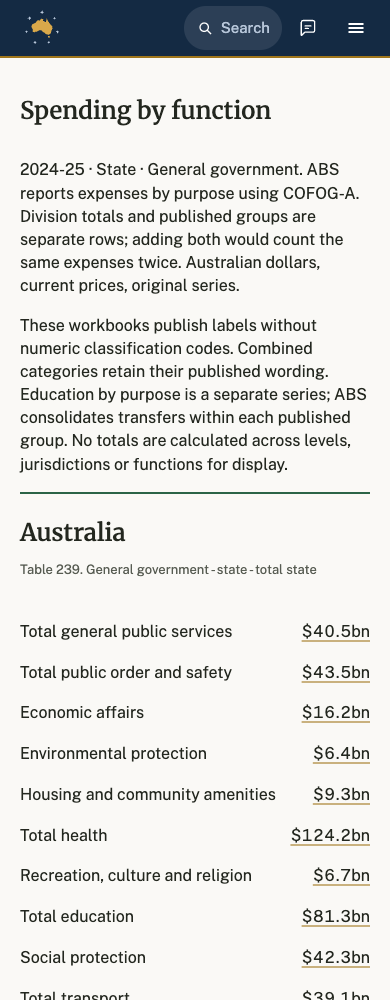
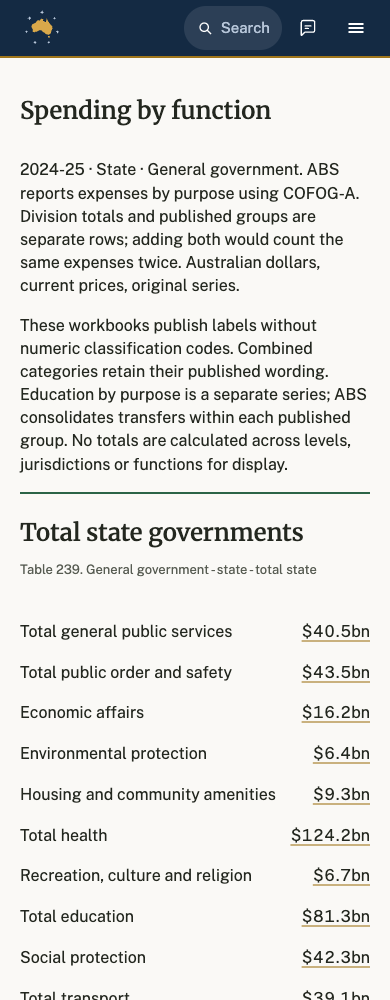
Correct ABS GFS group headings and prove diagnostic containment

Changed region(s): [[0.0615, 0.527, 0.7692, 0.558]]

diff --git a/portal/src/government-finance-functions.ts b/portal/src/government-finance-functions.ts
@@ -1,6 +1,7 @@
 import {formatCell, guardTableURL, type Row} from '../public/datatable.js'
 import {governmentFunctionTableConfig, registerTableHTML} from '../public/register-tables.js'
 import {clearedGFSDocuments, type GFSHub, type GFSRow} from './government-finance.ts'
+import {governmentFinanceGroupHeading} from './government-finance-groups.ts'
 
 export type GFSFunctionRow=Omit<GFSRow,'measure_as_published'> & {
   classification:string;function_level:'division'|'group'|'total';division:string|null;group:string|null;
@@ -63,7 +64,7 @@ export function spendingByFunction(h:GFSHub,url:URL,selection:{release:string;le
   const cards=[...new Set(latestRows.map(r=>r.jurisdiction))].sort().map(j=>{
     const rows=latestRows.filter(r=>r.jurisdiction===j),functions=rows.filter(r=>r.measure==='expenses_by_function' && r.function_level!=='group')
     const display=functions.length?functions:rows.filter(r=>r.measure==='education_operating_expenses')
-    return `<article class="gfs-function-jurisdiction"><h3>${esc(j)}</h3><p class="gfs-receipt">${esc(display[0].consolidation)}</p>${functions.length?'':'<p>Education only; this workbook does not publish an all-function split for this group.</p>'}<dl>${display.map(r=>`<div${r.function_level==='total'?' class="gfs-function-total"':''}><dt>${esc(r.function_as_published)}</dt><dd><a href="${esc(r.source_url)}" title="${esc(r.workbook+' · '+r.sheet+'!'+r.cell)}">${r.value===null?'Not published':formatCell(r.value*1e6,{key:'amount',label:'Amount',type:'money'})}</a></dd></div>`).join('')}</dl>${receipt(h)}<details><summary>Original cells and source hashes</summary>${display.map(r=>`<p><a href="${esc(r.source_url)}">${esc(r.function_as_published)} · ${esc(r.sheet+'!'+r.cell)}</a><br>Snapshot ${esc(r.snapshot)} · SHA-256 ${esc(r.sha256)}</p>`).join('')}</details></article>`
+    return `<article class="gfs-function-jurisdiction"><h3>${esc(governmentFinanceGroupHeading(display[0].level_of_government,j))}</h3><p class="gfs-receipt">${esc(display[0].consolidation)}</p>${functions.length?'':'<p>Education only; this workbook does not publish an all-function split for this group.</p>'}<dl>${display.map(r=>`<div${r.function_level==='total'?' class="gfs-function-total"':''}><dt>${esc(r.function_as_published)}</dt><dd><a href="${esc(r.source_url)}" title="${esc(r.workbook+' · '+r.sheet+'!'+r.cell)}">${r.value===null?'Not published':formatCell(r.value*1e6,{key:'amount',label:'Amount',type:'money'})}</a></dd></div>`).join('')}</dl>${receipt(h)}<details><summary>Original cells and source hashes</summary>${display.map(r=>`<p><a href="${esc(r.source_url)}">${esc(r.function_as_published)} · ${esc(r.sheet+'!'+r.cell)}</a><br>Snapshot ${esc(r.snapshot)} · SHA-256 ${esc(r.sha256)}</p>`).join('')}</details></article>`
   }).join('')
   const config=governmentFunctionTableConfig(governmentFunctionRows({...h,function_rows:selected})),guarded=guardTableURL(config,url)
   return {rejected:guarded.rejected,html:`<section aria-labelledby="gfs-functions"><h2 id="gfs-functions">Spending by function</h2><p>${esc(latest)} · ${esc(selection.level)} · ${esc(selection.sector)}. ABS reports expenses by purpose using COFOG-A. Division totals and published groups are separate rows; adding both would count the same expenses twice. Australian dollars, current prices, original series.</p><p>These workbooks publish labels without numeric classification codes. Combined categories retain their published wording. Education by purpose is a separate series; ABS consolidates transfers within each published group. No totals are calculated across levels, jurisdictions or functions for display.</p><div class="gfs-jurisdictions gfs-function-split">${cards}</div><h3 id="gfs-function-series">Year-by-year spending by function</h3><p>Filter by division, published row level, series or year. CSV retains original labels, empty code fields, workbook cells, source values and snapshot hashes.</p>${registerTableHTML(config,guarded.query,url)}${receipt(h)}</section>`}

diff --git a/portal/src/government-finance.ts b/portal/src/government-finance.ts
@@ -1,6 +1,7 @@
 import {formatCell, guardTableURL, type Row} from '../public/datatable.js'
 import {governmentFinanceTableConfig, registerTableHTML} from '../public/register-tables.js'
 import {clearedGovernmentFunctions, spendingByFunction, type GFSFunctionRow} from './government-finance-functions.ts'
+import {governmentFinanceGroupHeading} from './government-finance-groups.ts'
 
 const CC='https://creativecommons.org/licenses/by/4.0/'
 const SOURCE='https://www.abs.gov.au/statistics/economy/government/government-finance-statistics-annual/2024-25'
@@ -95,7 +96,7 @@ export async function governmentFinancePage(url:URL,read:Read,block:Block){
   const cards=[...new Set(latestRows.map(r=>r.jurisdiction))].sort().map(j=>{
     const rows=latestRows.filter(r=>r.jurisdiction===j)
     const sources=[...new Map(rows.map(r=>[r.workbook,r])).values()]
-    return `<article class="gfs-jurisdiction"><h3>${esc(j)}</h3><p class="gfs-receipt">${esc((rows.find(r=>r.measure==='revenue')||rows[0]).consolidation)}</p><dl>${Object.entries(names).flatMap(([key,label])=>{const r=rows.find(r=>r.measure===key);return r?[`<div><dt>${label}</dt><dd>${r.value!==null?cellLink(r):'Not published'}</dd></div>`]:[]}).join('')}</dl>${receipt(h,releaseDate)}<details><summary>Original cells and source hashes</summary>${rows.map(r=>`<p><a href="${esc(r.source_url)}">${esc(names[r.measure])} · ${esc(r.sheet+'!'+r.cell)}</a></p>`).join('')}${sources.map(r=>`<p>${esc(r.workbook)} · Snapshot ${esc(r.snapshot)}<br>SHA-256 ${esc(r.sha256)}</p>`).join('')}</details></article>`
+    return `<article class="gfs-jurisdiction"><h3>${esc(governmentFinanceGroupHeading(rows[0].level_of_government,j))}</h3><p class="gfs-receipt">${esc((rows.find(r=>r.measure==='revenue')||rows[0]).consolidation)}</p><dl>${Object.entries(names).flatMap(([key,label])=>{const r=rows.find(r=>r.measure===key);return r?[`<div><dt>${label}</dt><dd>${r.value!==null?cellLink(r):'Not published'}</dd></div>`]:[]}).join('')}</dl>${receipt(h,releaseDate)}<details><summary>Original cells and source hashes</summary>${rows.map(r=>`<p><a href="${esc(r.source_url)}">${esc(names[r.measure])} · ${esc(r.sheet+'!'+r.cell)}</a></p>`).join('')}${sources.map(r=>`<p>${esc(r.workbook)} · Snapshot ${esc(r.snapshot)}<br>SHA-256 ${esc(r.sha256)}</p>`).join('')}</details></article>`
   }).join('')
   const rows=governmentFinanceRows({...h,rows:selected}),config=governmentFinanceTableConfig(rows),guarded=guardTableURL(config,url)
   if(guarded.rejected)return error(400,'Choose one value for each table filter.')

diff --git a/portal/src/government-finance-groups.ts b/portal/src/government-finance-groups.ts
@@ -1,0 +1,11 @@
+/** Published level and jurisdiction identify the ABS consolidation group. */
+const headings:Record<string,Record<string,string>>={
+  Commonwealth:{Australia:'Commonwealth government'},
+  State:{Australia:'Total state governments'},
+  Local:{Australia:'Total local governments'},
+  'State and local':{Australia:'Total state and local governments'},
+  'Control n.f.d.':{Australia:'Control n.f.d.'},
+  'All levels of government':{Australia:'Australia, all levels of government'},
+  National:{Australia:'National general government'}
+}
+export const governmentFinanceGroupHeading=(level:string,jurisdiction:string)=>headings[level]?.[jurisdiction]??jurisdiction

diff --git a/tests/fixtures/abs_gfs_public_outputs.py b/tests/fixtures/abs_gfs_public_outputs.py
@@ -1,0 +1,96 @@
+"""Test-only reviewed promotion with identifiable internal diagnostic probes.
+
+Real sums can equal published values. Rounding controls distinguish their
+provenance; unique probes detect accidental export of diagnostic records.
+"""
+from contextlib import redirect_stdout
+from io import StringIO
+import hashlib
+import json
+from pathlib import Path
+import shutil
+import sys
+import tempfile
+from unittest.mock import patch
+
+ROOT = Path(__file__).resolve().parents[2]
+sys.path.insert(0, str(ROOT))
+from openpyxl import load_workbook
+from scripts.abs_gfs import functions
+from scripts.abs_gfs.check import checked_projection
+from scripts.promote_hub_data import INPUTS, promote
+
+
+def fixture(verify_originals=False):
+    stage = ROOT / "data/staged/abs-gfs"
+    hub, _ = checked_projection(stage, verify_originals=verify_originals)
+    originals = [*hub["rows"], *hub["function_rows"]]
+    locator = lambda r: tuple(r[k] for k in ("workbook", "sheet", "cell", "sha256"))
+    cells = {locator(r): r for r in originals}
+    probes = {"function_divisions_to_published_total": 987654321012301,
+              "education_purposes_to_published_total": 987654321012302,
+              "function_groups_to_published_division": 987654321012303}
+    original_reconcile = functions.reconcile
+    controls = {}
+
+    def diagnostics(rows, headlines):
+        checks = original_reconcile(rows, headlines)
+        for check in checks:
+            identity = check["identity"].split(":")[0]
+            if identity not in probes:
+                continue
+            components = [cells[locator(s)]["value"] for s in check["sources"][:-1]]
+            computed = sum(components)
+            check["internal_computed_sum_million"] = computed
+            check["internal_probe"] = probes[identity]
+            if check["delta_million"] and identity not in controls:
+                total = cells[locator(check["sources"][-1])]
+                controls[identity] = {"published": total, "computed_sum_million": computed}
+        return checks
+
+    # Add metadata only to isolated diagnostics; validation still recomputes and
+    # compares every check. No real staging, receipt or public asset is changed.
+    with tempfile.TemporaryDirectory(prefix="opax-gfs-public-test-") as scratch:
+        root = Path(scratch)
+        target_stage = root / "data/staged/abs-gfs"
+        shutil.copytree(stage, target_stage)
+        public = root / "portal/public"
+        public.mkdir(parents=True)
+        shutil.copyfile(ROOT / "portal/public/votes.json", public / "votes.json")
+        with patch.object(functions, "reconcile", side_effect=diagnostics):
+            checks = diagnostics(hub["function_rows"], hub["rows"])
+            (target_stage / "function-reconciliation.json").write_text(json.dumps(checks))
+            review = {"status": "approved", "reviewed_commit": "synthetic-diagnostic-containment-test",
+                      "inputs": {p: hashlib.sha256((target_stage / p).read_bytes()).hexdigest() for p in INPUTS["abs-gfs"]}}
+            (target_stage / "review.json").write_text(json.dumps(review))
+            with redirect_stdout(StringIO()):
+                assert promote(["abs-gfs"], root, dry_run=True) == 0
+                assert promote(["abs-gfs"], root) == 0
+                assert promote(["abs-gfs"], root, check_public=True) == 0
+        asset = json.loads((public / "government-finance/data.json").read_text())
+    assert asset["rows"] == hub["rows"] and asset["function_rows"] == hub["function_rows"]
+    assert set(controls) == set(probes)
+    assert all(c["computed_sum_million"] != c["published"]["value"] for c in controls.values())
+    assert all(str(probe) not in json.dumps(asset) for probe in probes.values())
+    # Independently trace every exported monetary observation to the retained
+    # workbook bytes, including all totals and education purpose observations.
+    inventory = json.loads((stage / "inventory.json").read_text())
+    for document in inventory["workbooks"] if verify_originals else []:
+        rows = [r for r in [*asset["rows"], *asset["function_rows"]] if r["workbook"] == document["id"] + ".xlsx"]
+        if not rows:
+            continue
+        path = ROOT / document["original_path"]
+        assert hashlib.sha256(path.read_bytes()).hexdigest() == document["receipt"]["sha256"]
+        workbook = load_workbook(path, data_only=True)
+        for row in rows:
+            assert row["sha256"] == document["receipt"]["sha256"]
+            assert workbook[row["sheet"]][row["cell"]].value == (row["source_marker"] if row["value"] is None else row["value"])
+        workbook.close()
+    return {"asset": asset, "rounding_controls": controls, "probes": list(probes.values()),
+            "source_observations_traced": len(originals), "original_cells_verified": len(originals) if verify_originals else 0}
+
+
+if __name__ == "__main__":
+    # Normal CI checks the committed source-cell contract. The explicit local
+    # release gate also verifies retained XLSX bytes, which are not in Git.
+    print(json.dumps(fixture(verify_originals="--verify-originals" in sys.argv), separators=(",", ":"), ensure_ascii=False))

diff --git a/scripts/abs_gfs/functions.py b/scripts/abs_gfs/functions.py
@@ -136,6 +136,7 @@ def reconcile(rows, headlines):
 
     def compare(identity, group, components, total, add=False):
         available = total is not None and bool(components) and all(r["value"] is not None for r in [*components, total])
+        # Reconciliation check only: this sum is never published.
         delta = ((sum(r["value"] for r in components) if add else components[0]["value"]) - total["value"]) if available else None
         tolerance = (len(components) + 1) / 2 if add else 0
         results.append({"group": list(group), "identity": identity, "delta_million": delta,

diff --git a/docs/coverage/abs-gfs/function-fix-1.md b/docs/coverage/abs-gfs/function-fix-1.md
@@ -1,0 +1,43 @@
+# ABS GFS function review fix 1
+
+20 October 2026 Melbourne. Baseline `12a8ab62ceacf608f0d92ebd529b0bc1313e6de3`; branch `coverage/abs-gfs-function`. No fetch, push, deploy, nightly or production write. Numerical staging and its pending review receipt are unchanged.
+
+## Consolidation headings
+
+Both headline and function cards now use one shared [mapping](../../../portal/src/government-finance-groups.ts), keyed only on the published level and jurisdiction. Original jurisdiction fields, selectors, source labels and exports are unchanged.
+
+| Published level / jurisdiction | Heading in both sections |
+| --- | --- |
+| Commonwealth / Australia | Commonwealth government |
+| State / Australia | Total state governments |
+| Local / Australia | Total local governments |
+| State and local / Australia (including Education Table_8) | Total state and local governments |
+| Control n.f.d. / Australia | Control n.f.d. |
+| All levels of government / Australia | Australia, all levels of government |
+| National / Australia (separate debt-matrix group) | National general government |
+| Individual state or territory | Original jurisdiction name |
+
+The exhaustive heading test renders every published level/sector combination, resolves each card's original workbook-cell link back to its published level and jurisdiction, and checks its heading independently of the shared mapping. No national-group card reads plain Australia; no heading uses an em dash. The National debt group stays distinct from Commonwealth.
+
+## Diagnostic sums remain internal
+
+The requested reconciliation arithmetic remains intact, with a one-line comment at the sum site: it is a check and is never published. No computed sum replaces a published cell.
+
+Three new public-output tests exercise the actual promoter in an isolated synthetic-review fixture, both CSV exports, server-rendered cards/tables/hydration, the freshly built catalogue, and authenticated local `/mcp` requests. All external network calls are forbidden in those tests; auth and rate-limit storage are local stubs.
+
+The fixture adds identifiable internal-only metadata to each of the three additive diagnostic families: function divisions, education purposes and function groups. Validation still recomputes and compares the full diagnostic records. The promoted asset and public outputs contain none of those diagnostic fields or unique numeric probes. Three controls where rounding makes the computed sum differ from the published total prove that the original cell wins, rather than relying on numeric coincidences.
+
+All **8,246 monetary observations** in the isolated promoted asset are traced to original workbook cells and matching SHA-256s in the explicit local test mode. Every exported CSV amount and original-million value is checked against its cell; HTML cards, table amounts and hydration use those same published values. GFS does not currently publish observation records into the search catalogue or MCP; the tests inspect every generated catalogue record, verify empty diagnostic-probe searches, and prove the MCP reader cannot open a reconciliation record.
+
+Ordinary CI tests check the committed source-cell contract without requiring the untracked XLSX cache. The local release gate uses `OPAX_GFS_VERIFY_ORIGINALS=1` to independently verify the retained workbook bytes as well. This run used that mode.
+
+## Verification
+
+- **21 targeted web tests pass:** 11 headline, seven function (including exhaustive headings), three public-output tests. The three public-output tests also pass in portable contract mode.
+- **20 Python GFS tests pass**; **14 existing promoter regression tests pass**.
+- `npx tsc --noEmit -p .`, `npm run -s check`, original-cell dry run, Worker dry run and `git diff --check` pass.
+- Both 390/1440 local Worker screenshots retaken and visually inspected: [390 functions](../../../portal/private/abs-gfs-function/government-finance-390-functions.png), [1440 functions](../../../portal/private/abs-gfs-function/government-finance-1440-functions.png). The desktop top capture was refreshed too because its first headline changed. [Browser evidence](../../../portal/private/abs-gfs-function/browser-results.json) checks identical headings in both sections. Each table still fits its 350px phone container, also without JavaScript; no page overflow or browser errors.
[1 lines of base64/hex data omitted]
+- All staged numerical inputs, source receipts, the pending review receipt and real public GFS asset remain byte-identical. The real promoter continues to refuse pending approval; synthetic review fixtures never approve or promote the real snapshot.
+
+[Fix validation](../../../portal/private/abs-gfs-function/fix1-validation.json) records current screenshot hashes and gates. The initial implementation's `validation.json` records the earlier commit; this fix's screenshots supersede those earlier screenshot hashes.

diff --git a/scripts/abs_gfs/README.md b/scripts/abs_gfs/README.md
@@ -58,3 +58,11 @@ python3 -m scripts.abs_gfs.function_preview
 The preview command exercises dry-run, atomic promotion and public readback in a temporary synthetic-review fixture, removes that temporary directory, and writes only `portal/private/abs-gfs-function/preview-data.json`. It does not approve the real input receipt.
 
 From `portal/`, `node --test test/government-finance-functions.test.mjs` checks the SSR/export boundary and `node test/government-finance-function-browser.mjs` checks the local candidate with external browser requests blocked. The latter captures top, function split and function table at 390/1440, checks each table's own scroll width and amount bounds (also without JS), and saves evidence under `portal/private/abs-gfs-function/`. The optional `OPAX_GFS_PREVIEW_ASSET` override is local preview code only. Full-suite verification follows `build:search` at `--test-concurrency=4`; regenerated manifest, party-members, social and growth JSON are restored afterwards.
+
+Review fix 1 adds a shared level/jurisdiction heading map and public-output containment tests. Build the catalogue with `node scripts/build_search_catalog.mjs` from the repository root, then from `portal/` run:
+
+```sh
+OPAX_GFS_VERIFY_ORIGINALS=1 node --test --test-concurrency=4 test/government-finance.test.mjs test/government-finance-functions.test.mjs test/government-finance-public-outputs.test.mjs
+```
+
+The explicit flag verifies every promoted monetary observation against retained XLSX bytes as well as its source-cell contract. Without the flag, ordinary CI checks the committed source-cell contract and diagnostic probes without requiring untracked original workbooks. The test-only promoter fixture lives entirely in an automatically removed temporary directory; real staging and pending approval never change.

diff --git a/docs/coverage/abs-gfs/function-report.md b/docs/coverage/abs-gfs/function-report.md
@@ -1,5 +1,7 @@
 # ABS GFS expenses by function
 
+Review fix 1: [shared consolidation headings and diagnostic-containment proof](function-fix-1.md). Current screenshot receipts are in the fix validation; the original numerical findings below are unchanged.
+
 20 October 2026 Melbourne. Worktree `abs-gfs-function`, branch `coverage/abs-gfs-function`, baseline `c926a72c3`. **LIVE-pending**: implementation and staged data only. The headline core remains live. The orchestrator owns review, explicit promotion and deployment of this extension. No push, deploy, nightly, production data write, production Ask/generation/voice/auth call, native change or source request occurred.
 
 ## Reused source receipts and rights
